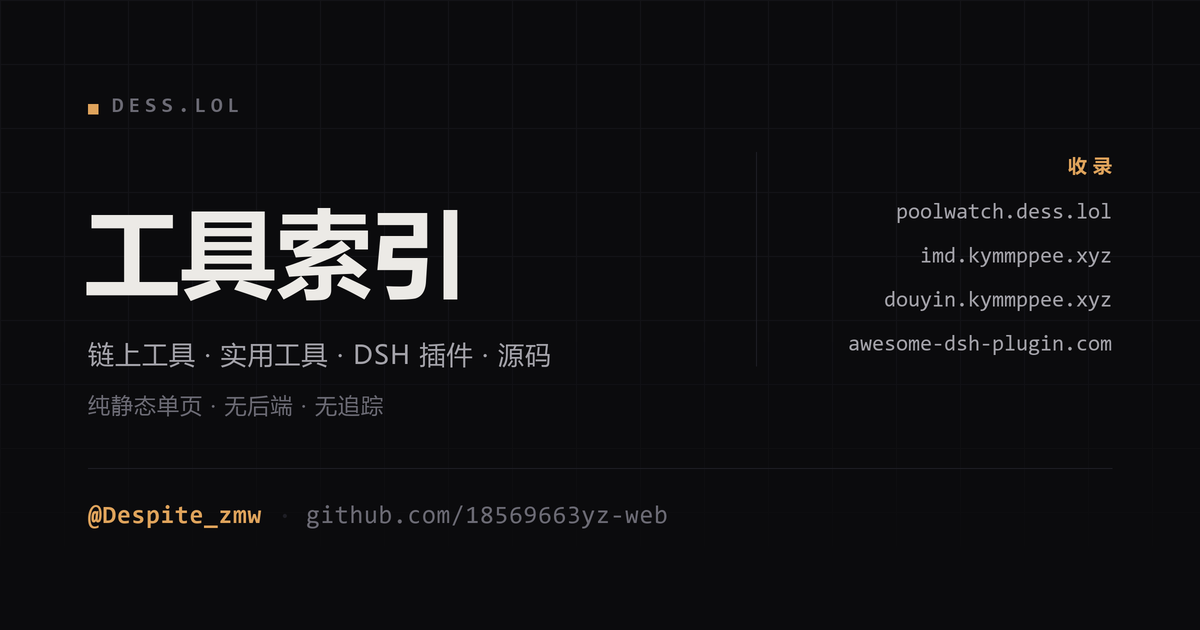
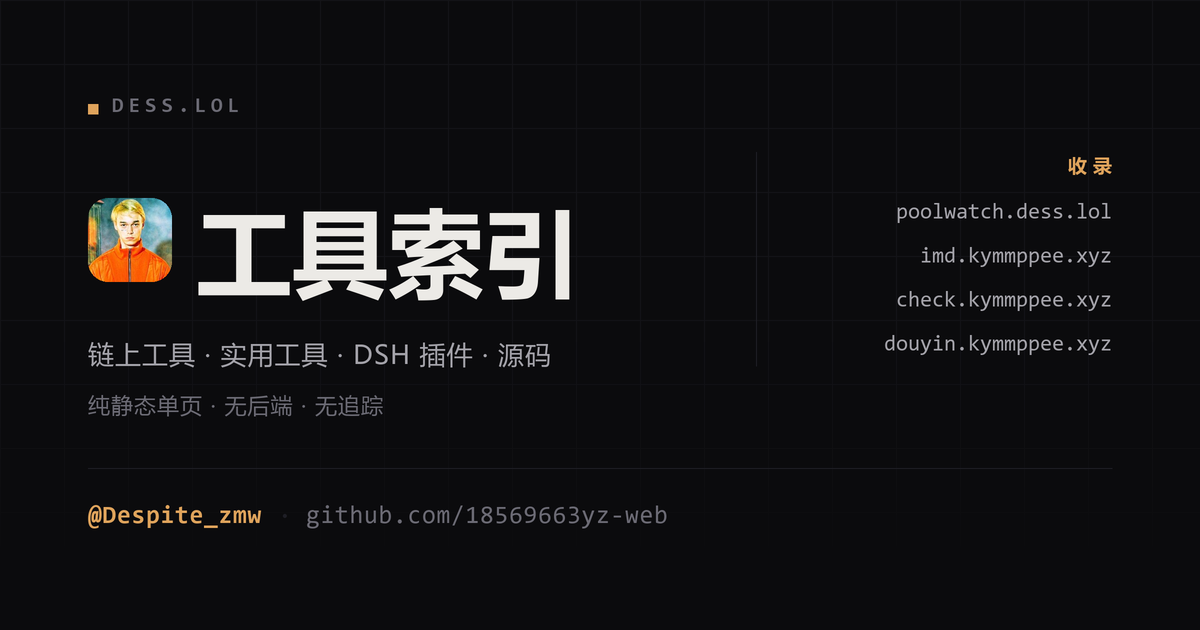
抬头的 D 字图标换成本人头像；下架 Awesome DSH Plugin（不是我的项目）

Changed region(s): [[0.0617, 0.3016, 0.4933, 0.4825], [0.7092, 0.5127, 0.925, 0.573], [0.74, 0.4524, 0.8017, 0.4825]]

diff --git a/index.html b/index.html
@@ -52,11 +52,7 @@
   <header class="masthead">
     <div class="who">
       <span class="mark" aria-hidden="true">
-        <svg viewBox="0 0 32 32" width="30" height="30">
-          <path d="M9.6 25.6V6.4h6.5a9.6 9.6 0 0 1 0 19.2H9.6Z"
-                fill="none" stroke="currentColor" stroke-width="2.1" stroke-linejoin="round"/>
-          <circle cx="16.3" cy="16" r="2.5" fill="currentColor"/>
-        </svg>
+        <img src="avatar.jpg" alt="" width="46" height="46" decoding="async">
       </span>
       <span class="who-text">
         <h1>Dess</h1>
@@ -222,32 +218,13 @@
     </section>
 
     <section class="group" data-group="dsh">
-      <h2 class="group-head"><span class="g-name"><span data-l="zh">DSH 插件</span><span data-l="en">DSH plugins</span></span><i class="g-line"></i><span class="g-count">2</span></h2>
-
-      <a class="entry" href="https://awesome-dsh-plugin.com" target="_blank" rel="noopener"
-         data-cat="dsh"
-         data-search="awesome dsh plugin deepseek harness 插件 列表 精选 awesome-dsh-plugin.com 目录"
-         data-search-en="awesome dsh plugin deepseek harness plugins list curated awesome-dsh-plugin.com directory">
-        <span class="no">05</span>
-        <span class="body">
-          <span class="top">
-            <span class="title"><span data-l="zh">Awesome DSH Plugin</span><span data-l="en">Awesome DSH Plugin</span></span>
-            <span class="dot" data-state="unknown"></span>
-          </span>
-          <span class="desc"><span data-l="zh">DeepSeek Harness 社区插件精选列表，站点由仓库自动构建。每条收录都对着源码核过：描述里说的是什么，就应该装得出来什么。</span><span data-l="en">A curated list of DeepSeek Harness community plugins; the site is built from the repo. Every entry was checked against its source: whatever the description promises is what the install should hand you.</span></span>
-          <span class="meta">
-            <span class="host">awesome-dsh-plugin.com</span>
-            <span class="tag"><span data-l="zh">列表</span><span data-l="en">List</span></span><span class="tag"><span data-l="zh">自动构建</span><span data-l="en">Auto-built</span></span>
-          </span>
-        </span>
-        <span class="go" aria-hidden="true">↗</span>
-      </a>
+      <h2 class="group-head"><span class="g-name"><span data-l="zh">DSH 插件</span><span data-l="en">DSH plugins</span></span><i class="g-line"></i><span class="g-count">1</span></h2>
 
       <a class="entry" href="https://github.com/18569663yz-web/dsh-plugin-crypto-ticker" target="_blank" rel="noopener"
          data-cat="dsh"
          data-search="crypto ticker 行情 插件 侧边栏 btc eth sol jup 零依赖 dsh 价格 走势图"
          data-search-en="crypto ticker markets plugin sidebar btc eth sol jup zero-dependency dsh price sparkline">
-        <span class="no">06</span>
+        <span class="no">05</span>
         <span class="body">
           <span class="top">
             <span class="title"><span data-l="zh">dsh-plugin-crypto-ticker</span><span data-l="en">dsh-plugin-crypto-ticker</span></span>
@@ -270,7 +247,7 @@
          data-cat="src"
          data-search="poolwatch 源码 仓库 github site app.js kernel keccak rpc v3fees"
          data-search-en="poolwatch source repository github site app.js kernel keccak rpc v3fees">
-        <span class="no">07</span>
+        <span class="no">06</span>
         <span class="body">
           <span class="top">
             <span class="title"><span data-l="zh">poolwatch · 源码</span><span data-l="en">poolwatch · source</span></span>
@@ -289,7 +266,7 @@
          data-cat="src"
          data-search="pool4 dashboard 源码 仓库 github imd 合约 abi 双语 快照"
          data-search-en="pool4 dashboard source repository github imd contracts abi bilingual snapshot">
-        <span class="no">08</span>
+        <span class="no">07</span>
         <span class="body">
           <span class="top">
             <span class="title"><span data-l="zh">pool4-dashboard · 源码</span><span data-l="en">pool4-dashboard · source</span></span>

diff --git a/styles.css b/styles.css
@@ -160,6 +160,12 @@ kbd {
   border-radius: 12px;
   color: var(--accent);
   background: var(--bg-lift);
+  overflow: hidden;          /* 把头像裁进这枚圆角方框里 */
+}
+.mark img {
+  display: block;
+  width: 100%; height: 100%;
+  object-fit: cover;
 }
 
 .who-text h1 {

diff --git a/README.md b/README.md
@@ -17,8 +17,9 @@
 | `boot.js` | 只做一件事：在首次绘制前把主题和语言定下来，避免刷新时闪底色、闪中文。必须在 `<head>` 里同步加载 |
 | `app.js` | 筛选、键盘操作、主题切换、可达性探测 |
 | `favicon.svg` | 图标（SVG，不依赖任何位图） |
+| `avatar.jpg` | 抬头那个 192×192 的头像。由根目录的 `make-avatar.py` 产出，别直接手改 |
 | `og.png` | 分享图，1200×630 |
-| `_headers` | Cloudflare 专用：安全响应头 + 缓存策略 |
+| `_headers` | 安全响应头 + 缓存策略。Cloudflare Pages / Workers 与 Netlify 都读，GitHub Pages 不读 |
 | `robots.txt` | 允许全站抓取 |
 
 ## 本地预览
@@ -61,13 +62,15 @@ python -m http.server 8080
 
 ## 自检
 
-仓库上一级目录（`ZRC\`）下有三个开发脚本，都不参与部署：
+仓库上一级目录（`ZRC\`）下有五个开发脚本，都不参与部署：
 
 | 脚本 | 作用 |
 | --- | --- |
 | `verify.py` | 用无头 Chrome 跑三轮断言：中文交互、中文 + `_headers` 里那份**真实** CSP、英文 + 同一份 CSP。每轮 60 项，共 180 项 |
 | `probe-layout.py` | 量指定视口下的真实几何，找横向溢出的元凶。`python probe-layout.py 390` |
-| `make-og.py` | 重新生成 `og.png` |
+| `make-og.py` | 重新生成 `og.png`（抬头那张头像也贴进分享图，跟页面保持一致） |
+| `make-avatar.py` | 把头图裁成方图并压到 192×192，输出 `dess-nav/avatar.jpg`。`python make-avatar.py [源图]` |
+| `shot-nav.py` | 出四张截图：中文深色、中文浅色、英文深色、390px 移动端 |
 
 ```bash
 python verify.py          # 期望输出：全部通过
@@ -150,11 +153,11 @@ python make-og.py
   等宽字体是「这里有台机器」的信号，滥用就变成程序员审美模板了。
 - **hover 时左边滑出的一道竖条**是唯一的主视觉动效，其余都克制。
 - **不做「点击复制」、不做「访问量」、不做「最近更新」徽章** ——
-  一个只有 8 条链接的页面不需要这些。
+  一个只有 7 条链接的页面不需要这些。
 - 深色是默认，但跟随系统 `prefers-color-scheme`，手动切过之后记进 `localStorage`。
 - **英文不是「翻译版」而是同一页面的另一个界面语言** —— 没有 `/en/` 子目录、没有
   第二份 HTML，SEO 靠 `<link rel="alternate" hreflang>` 指向 `?lang=en`。
-  一个只有八条链接的页面不值得维护两棵树。
+  一个只有七条链接的页面不值得维护两棵树。
 - 「检查可达性」用 `no-cors` 请求探测，**读不到状态码**，只能区分
   「网络层通了」和「连不上/超时」。所以页脚写的是「够得着」而不是「200」，
   别把它当成监控。
